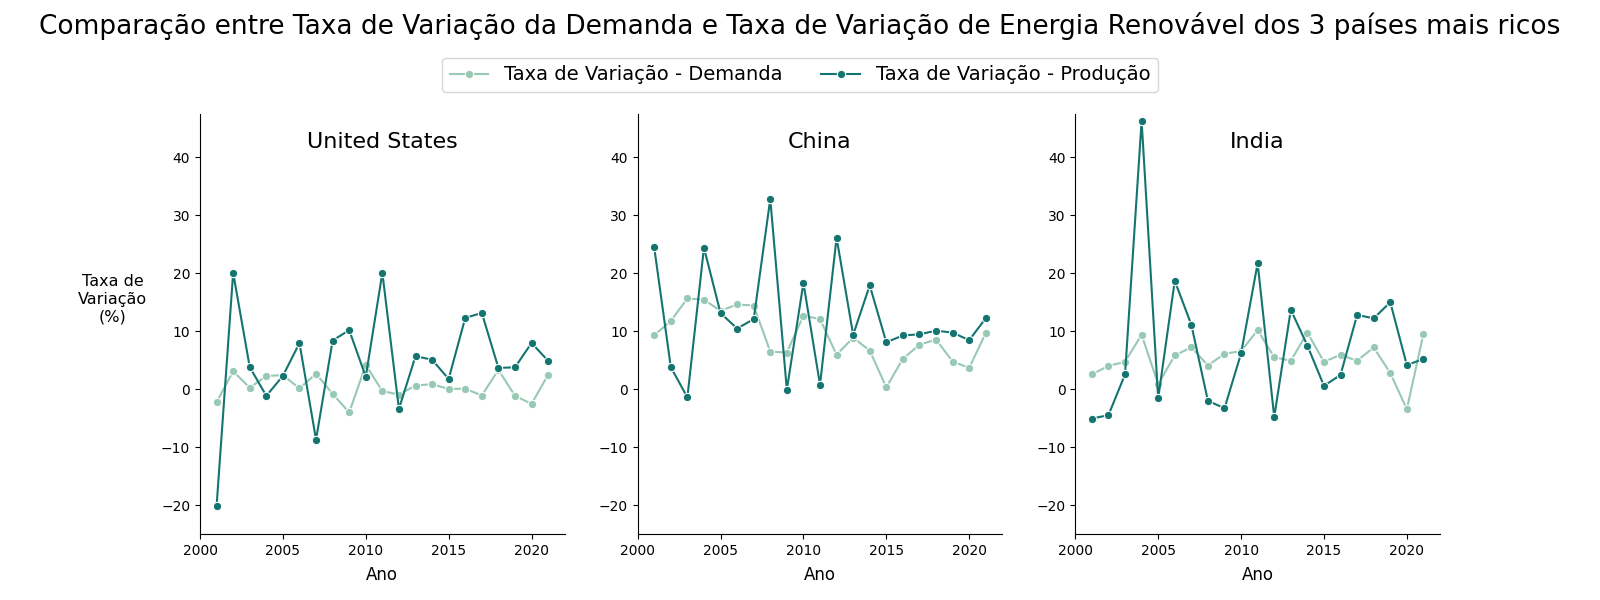
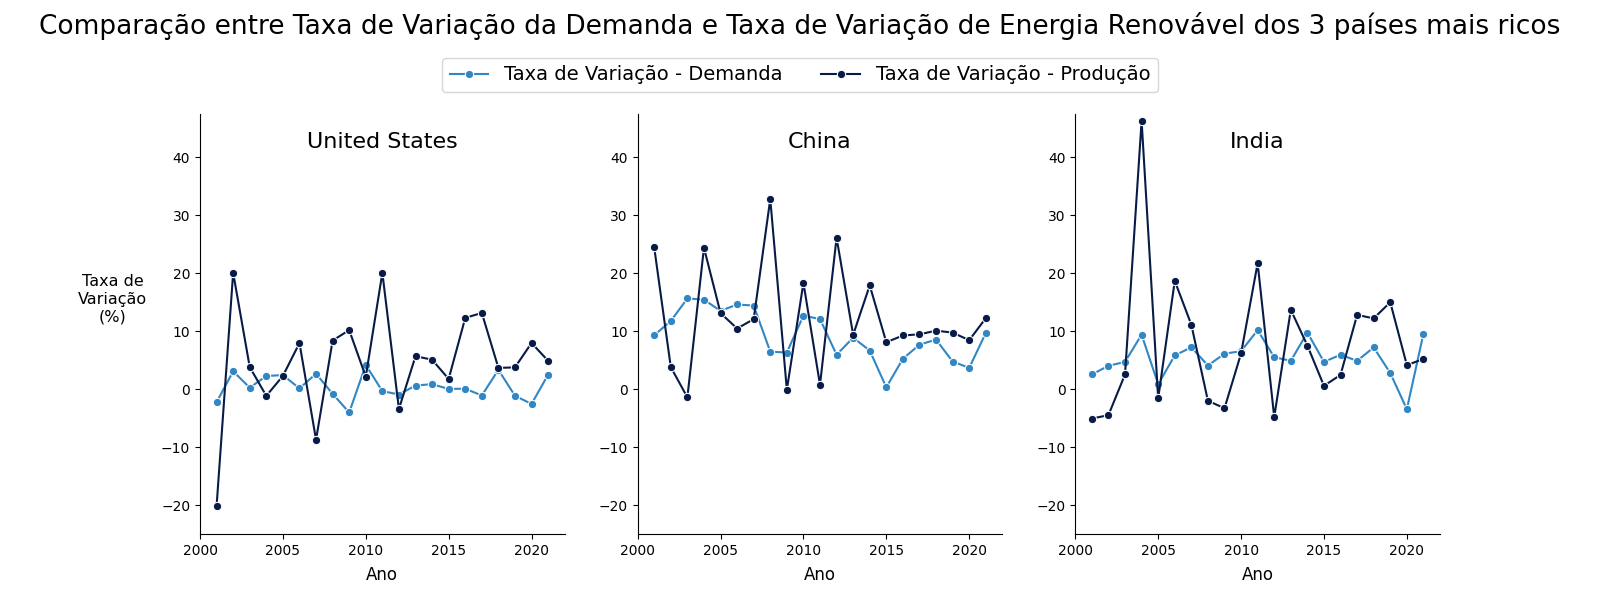
Mudei as cores dos gráficos

diff --git a/src/hipotese_3.py b/src/hipotese_3.py
@@ -41,13 +41,13 @@ def plot_comparison_demand_production(df_grouped):
     # Criar o gráfico de barras empilhadas
     plt.bar(
         df_pivot.index, df_pivot['renewables_electricity'], 
-        label='Produção de Energia Renovável', color=(20/255, 117/255, 112/255)
+        label='Produção de Energia Renovável', color=(8/255, 27/255, 70/255)
         )
     
     plt.bar(
         df_pivot.index, df_pivot['electricity_demand'], 
         bottom=df_pivot['renewables_electricity'], label='Demanda de Energia', 
-        color=(151/255, 201/255, 181/255)
+        color=(49/255, 135/255, 196/255)
         )
 
     # Intervalos do eixo X
@@ -95,12 +95,12 @@ def plot_variation_demand_production(df_grouped):
     sns.lineplot(
         x='year', y='variation_demand', data=df_grouped, 
         label='Taxa de Variação - Demanda', marker='o', 
-        color=(151/255, 201/255, 181/255)
+        color=(49/255, 135/255, 196/255)
         )
     sns.lineplot(
         x='year', y='variation_production', data=df_grouped, 
         label='Taxa de Variação - Produção', marker='o', 
-        color=(20/255, 117/255, 112/255)
+        color=(8/255, 27/255, 70/255)
         )
 
     # Intervalos do eixo X
@@ -127,7 +127,7 @@ plot_variation_demand_production(df_grouped)
 
 # Plota os gráficos de linhas que comparam a taxa de variação anual da demanda 
 # e a taxa de variação anual da produção de cada um dos três países mais ricos 
-def plot_variation_in_the_richest_countries(df_grouped):
+def plot_variation_in_the_richest_countries(df):
     """
     Faz a média do pib anual de cada país;
     Encontra as três maiores médias;
@@ -159,11 +159,11 @@ def plot_variation_in_the_richest_countries(df_grouped):
 
         sns.lineplot(
             x='year', y='variation_demand', data=df_rich, label='Taxa de Variação - Demanda', 
-            marker='o', ax=axes[i], legend=False, color=(151/255, 201/255, 181/255)
+            marker='o', ax=axes[i], legend=False, color=(49/255, 135/255, 196/255)
             )
         sns.lineplot(
             x='year', y='variation_production', data=df_rich, label='Taxa de Variação - Produção', 
-            marker='o', ax=axes[i], legend=False, color=(20/255, 117/255, 112/255)
+            marker='o', ax=axes[i], legend=False, color=(8/255, 27/255, 70/255)
             )
         axes[i].set_title(f"{rich}", fontsize=16, y=0.9)
         axes[i].set_xlabel('Ano', fontsize=12, labelpad=6)
